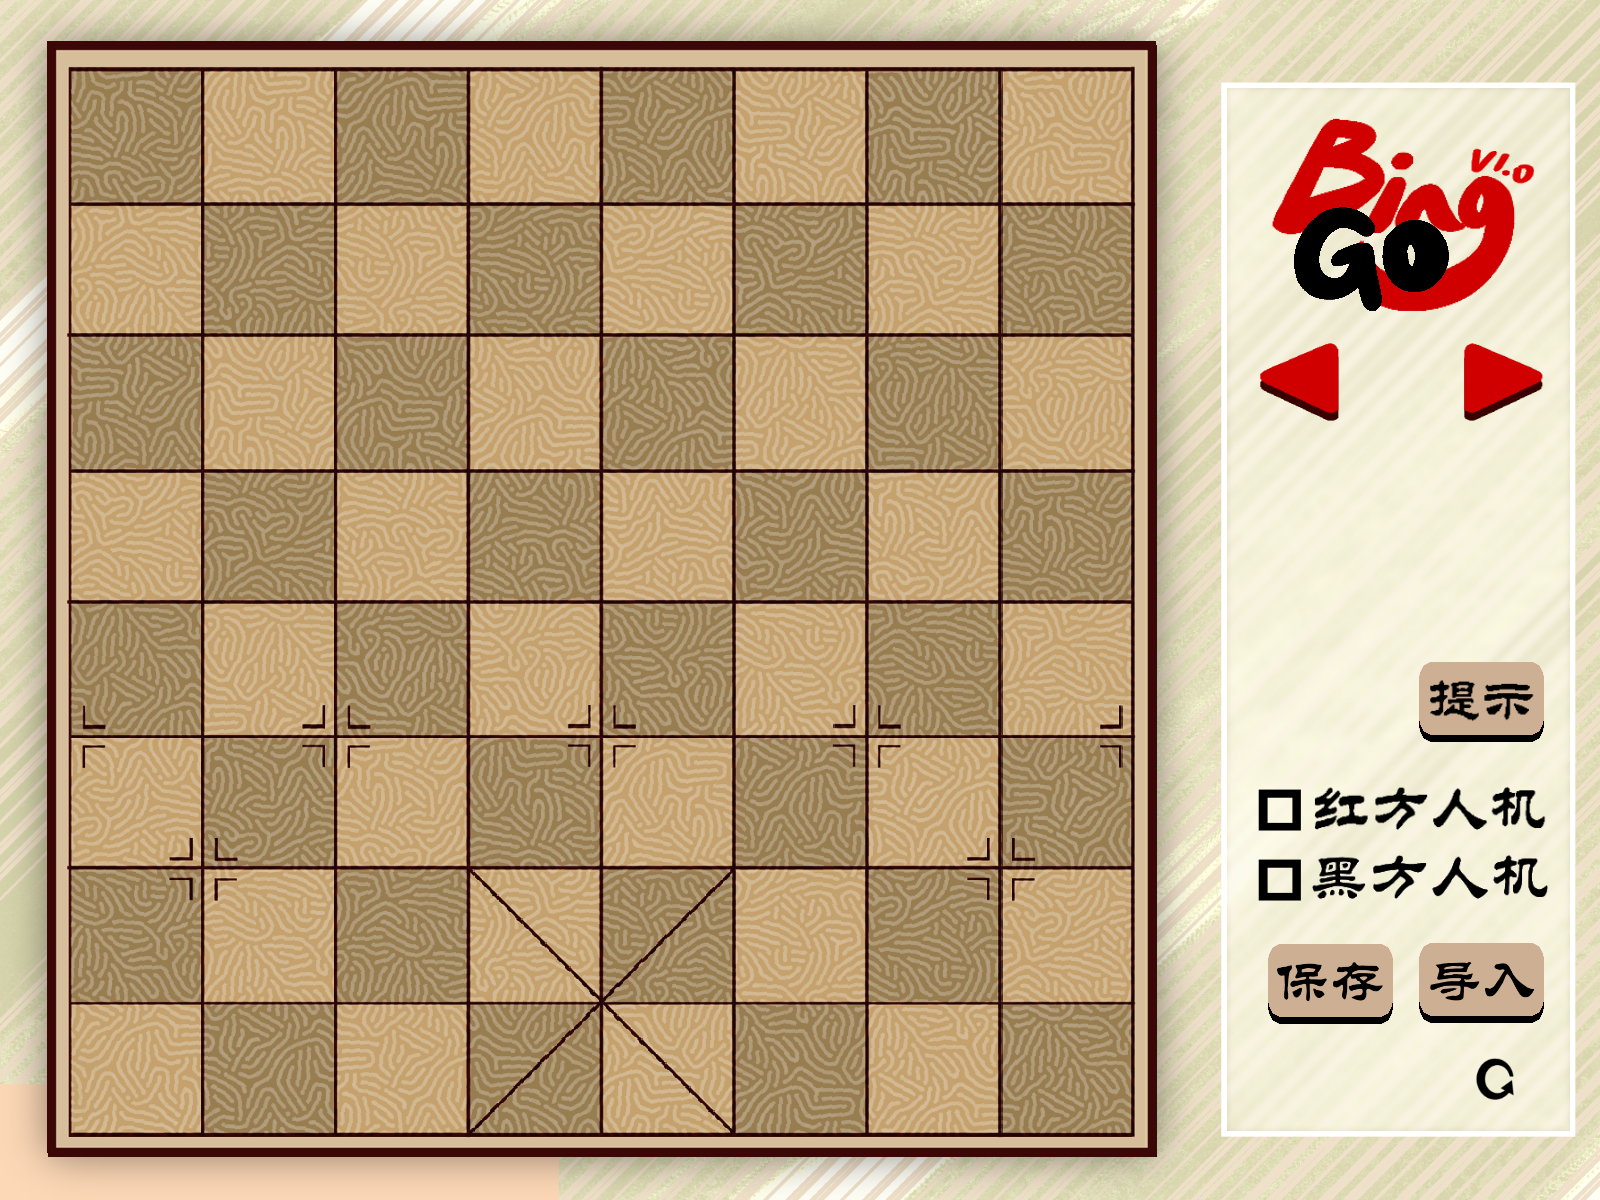
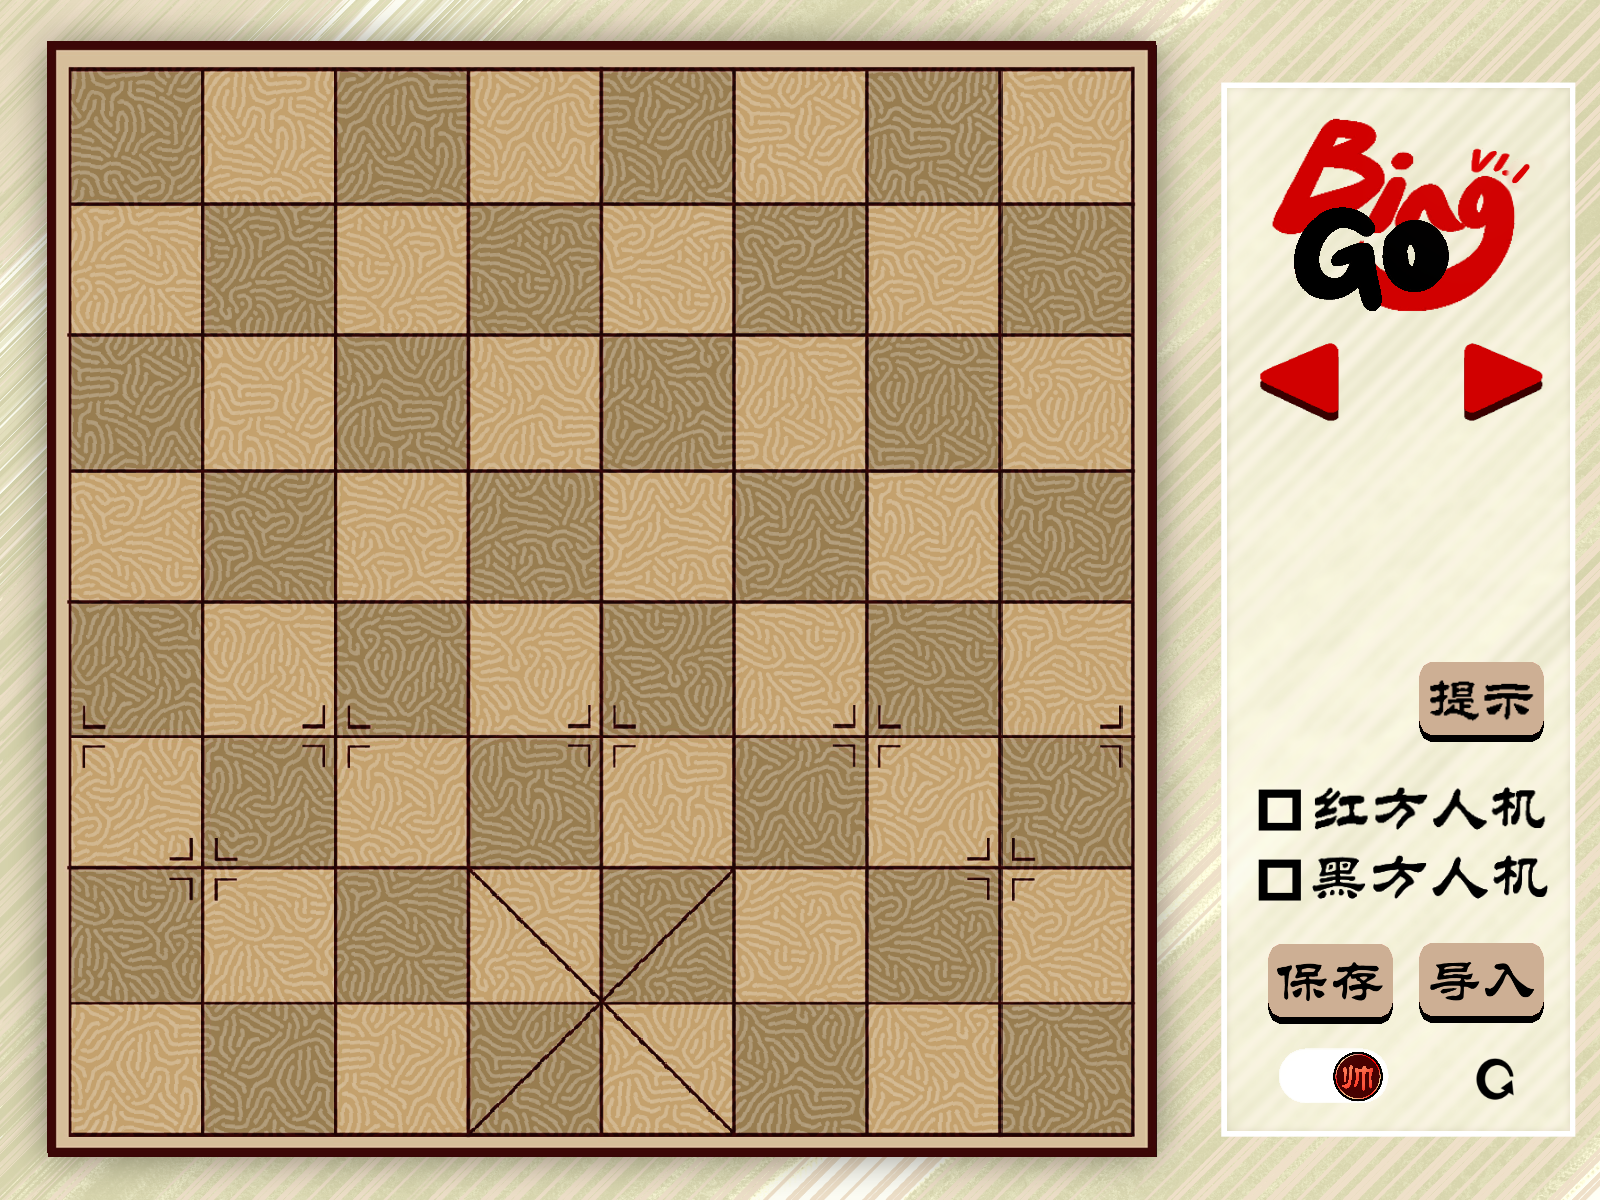
update 增加了屏幕尺寸自定义放缩功能

diff --git a/display.py b/display.py
@@ -30,7 +30,12 @@ from war import *
 import config
 import wx
 
-M = Metrics.density / 2
+try:
+    S = config.screen_scale
+except AttributeError as e:
+    print("! " + str(e))
+    S = 1
+M = Metrics.density * S / 2
 
 def fx(p):
     return (p % 10 + 0.5) / 12
@@ -51,17 +56,17 @@ class WarScreen(FloatLayout):
 
         # self.auto_intl = False
         # self.auto_chn = False
-        self.auto_intl_img = Image(source=f'./{self.img_source}/gou.png', size=("25dp", "25dp"), size_hint=(None, None),
+        self.auto_intl_img = Image(source=f'./{self.img_source}/gou.png', size=("%ddp" % (25 * S), "%ddp" % (25 * S)), size_hint=(None, None),
                                    pos_hint={'center_x': 0.803, 'center_y': 0.270})
-        self.auto_chn_img = Image(source=f'./{self.img_source}/gou.png', size=("25dp", "25dp"), size_hint=(None, None),
+        self.auto_chn_img = Image(source=f'./{self.img_source}/gou.png', size=("%ddp" % (25 * S), "%ddp" % (25 * S)), size_hint=(None, None),
                                   pos_hint={'center_x': 0.803, 'center_y': 0.328})
 
         # 窗口及背景图设置
-        Window.size = (800, 600)
-        self.bg_image = Image(source=f'./{self.img_source}/beach.png', size=("800dp", "600dp"), size_hint=(None, None),
+        Window.size = (800*S, 600*S)
+        self.bg_image = Image(source=f'./{self.img_source}/beach.png', size=("%ddp" % (800 * S), "%ddp" % (600 * S)), size_hint=(None, None),
                               pos_hint={'center_x': 0.5, 'center_y': 0.5})
         self.add_widget(self.bg_image)
-        self.turn_label = Label(text="0", size_hint=(None, None), size=("200dp", "100dp"), bold=True,
+        self.turn_label = Label(text="0", size_hint=(None, None), size=("%ddp" % (200 * S), "%ddp" % (100 * S)), bold=True,
                                 pos_hint={'center_x': 0.875, 'center_y': 0.68}, font_size='20dp', color=[0, 0, 0, 1])
         self.add_widget(self.turn_label)
 
@@ -85,14 +90,14 @@ class WarScreen(FloatLayout):
             self.beach.set_son(qizi, p)
             self.pieces.append(qizi)
             self.imgs.append(Image(
-                source=f'./{self.img_source}/{typ}.png', size_hint=(None, None), size=("65dp", "65dp"),
+                source=f'./{self.img_source}/{typ}.png', size_hint=(None, None), size=("%ddp" % (65 * S), "%ddp" % (65 * S)),
                 pos_hint={'center_x': fx(p), 'center_y': fy(p)}
             ))
             self.add_widget(self.imgs[-1])
 
     def add_label_sound(self, text, sound):
         self.hints.append(Image(source=f'./{self.img_source}/{text}.png', size_hint=(None, None),
-                                size=("65dp", "65dp"), pos_hint={'center_x': 0.375, 'center_y': 0.5}))
+                                size=("%ddp" % (65 * S), "%ddp" % (65 * S)), pos_hint={'center_x': 0.375, 'center_y': 0.5}))
         self.add_widget(self.hints[-1])
         Clock.schedule_once(lambda dt: self.remove_label(), 1)
         self.sound = SoundLoader.load(f'./music/{sound}.wav')
@@ -103,7 +108,7 @@ class WarScreen(FloatLayout):
 
     def add_label(self, text):
         self.hints.append(Image(source=f'./{self.img_source}/{text}.png', size_hint=(None, None),
-                                size=("200dp", "200dp"), pos_hint={'center_x': 0.87, 'center_y': 0.515}))
+                                size=("%ddp" % (200 * S), "%ddp" % (200 * S)), pos_hint={'center_x': 0.87, 'center_y': 0.515}))
         self.add_widget(self.hints[-1])
 
     def remove_label(self):
@@ -114,12 +119,12 @@ class WarScreen(FloatLayout):
         for p in self.war.active_qizi.get_ma():
             if self.beach.occupied(p):
                 self.dots.append(Image(source=f'./{self.img_source}/big_dot.png', size_hint=(None, None),
-                                       size=("65dp", "65dp"), pos_hint={'center_x': fx(p), 'center_y': fy(p)}))
+                                       size=("%ddp" % (65 * S), "%ddp" % (65 * S)), pos_hint={'center_x': fx(p), 'center_y': fy(p)}))
                 self.dots[-1].opacity = 0.5
                 self.add_widget(self.dots[-1])
             else:
                 self.dots.append(Image(source=f'./{self.img_source}/small_dot.png', size_hint=(None, None),
-                                 size=("120dp", "120dp"), pos_hint={'center_x': fx(p), 'center_y': fy(p)}))
+                                 size=("%ddp" % (120 * S), "%ddp" % (120 * S)), pos_hint={'center_x': fx(p), 'center_y': fy(p)}))
                 self.dots[-1].opacity = 0.5
                 self.add_widget(self.dots[-1])
 
@@ -143,7 +148,7 @@ class WarScreen(FloatLayout):
     #     # 添加贴图
     #     self.pieces.append(Qizi(p=p, typ=typ, beach=self.beach, idt=idt))
     #     self.imgs.append(Image(source='./img/%d.png' % typ, size_hint=(None, None),
-    #                            size=("65dp", "65dp"), pos_hint={'center_x': fx(p), 'center_y': fy(p)}))
+    #                            size=("%ddp" % (65 * S), "%ddp" % (65 * S)), pos_hint={'center_x': fx(p), 'center_y': fy(p)}))
     #     # self.add_widget(self.imgs[idt])
     #     # return idt
     #
@@ -234,7 +239,7 @@ class WarScreen(FloatLayout):
                 an.append((1, idt))
                 self.pieces.append(Qizi(p=oper[2], typ=oper[1], beach=self.beach, idt=idt))
                 self.imgs.append(Image(source=f'./{self.img_source}/%d.png' % oper[1], size_hint=(None, None),
-                                       size=("65dp", "65dp"), pos_hint={'center_x': fx(oper[2]), 'center_y': fy(oper[2])}))
+                                       size=("%ddp" % (65 * S), "%ddp" % (65 * S)), pos_hint={'center_x': fx(oper[2]), 'center_y': fy(oper[2])}))
                 self.beach.place_son(typ=oper[1], p=oper[2], idt=idt)
             elif oper[0] == 2:
                 an.append((2, self.beach[oper[2]].idt))
@@ -373,7 +378,7 @@ class WarScreen(FloatLayout):
 #                 else:
 #                     self.img_source = 'img'
 #                 self.remove_widget(self.bg_image)
-#                 self.bg_image = Image(source=f'./{self.img_source}/beach.png', size=("800dp", "600dp"),
+#                 self.bg_image = Image(source=f'./{self.img_source}/beach.png', size=("%ddp" % (800 * S), "%ddp" % (600 * S)),
 #                                       size_hint=(None, None),
 #                                       pos_hint={'center_x': 0.5, 'center_y': 0.5})
 #                 self.add_widget(self.bg_image)
@@ -404,7 +409,7 @@ class WarScreen(FloatLayout):
 
     def show_picture(self, typ):
         self.picture_image.append(
-            Image(source=f'./{self.img_source}/{typ}_p.png', size=("700dp", "500dp"), size_hint=(None, None),
+            Image(source=f'./{self.img_source}/{typ}_p.png', size=("%ddp" % (700 * S), "%ddp" % (500 * S)), size_hint=(None, None),
                   pos_hint={'center_x': 0.5, 'center_y': 0.5}))
         self.add_widget(self.picture_image[-1])
 

diff --git a/config.py b/config.py
@@ -7,6 +7,8 @@ from __future__ import annotations
 
 friend_fight = False
 
+screen_scale = 2
+
 typ_dict = {
     "将": 0,
     "车": 1,
